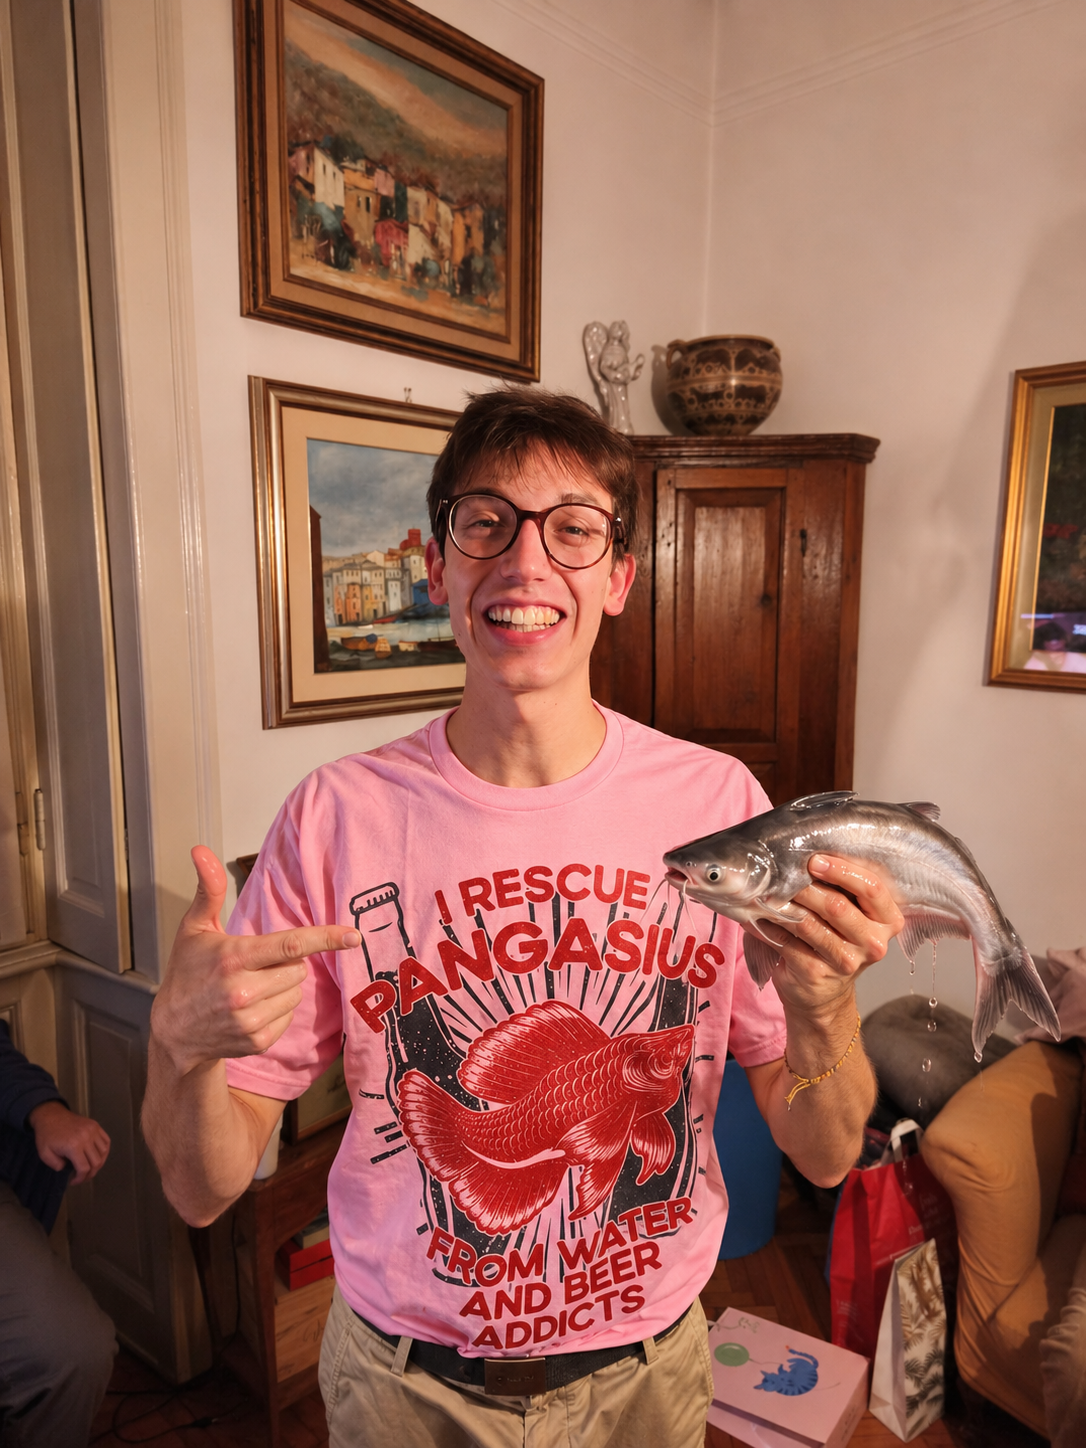
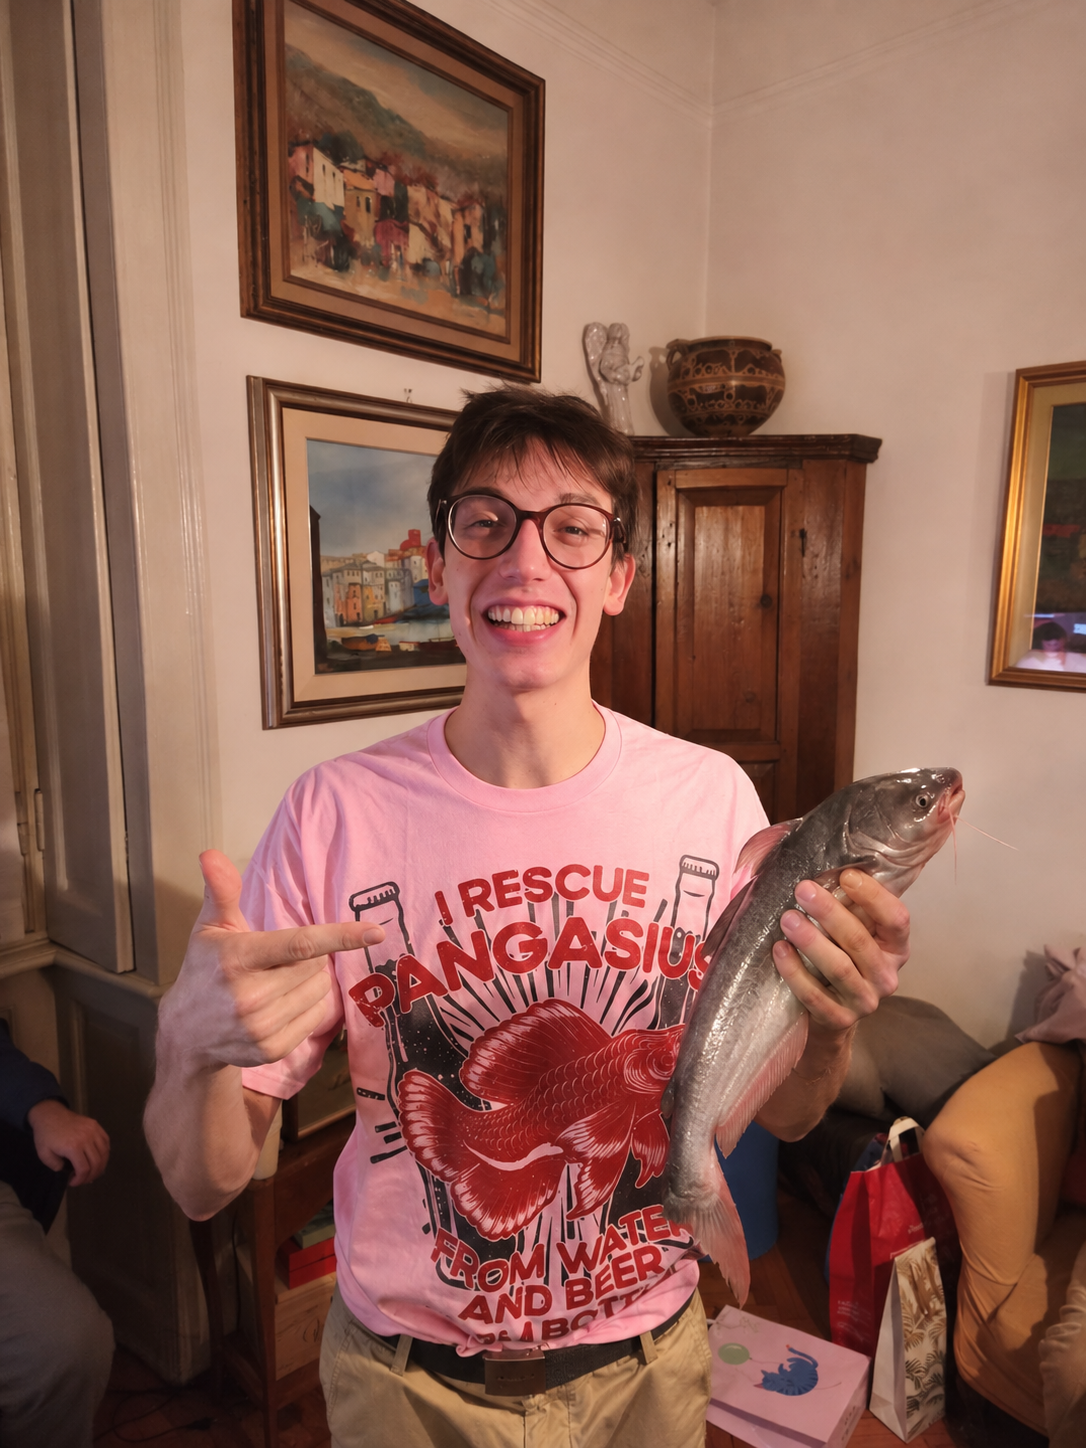
Add files via upload

diff --git a/index.html b/index.html
@@ -24,9 +24,17 @@
 <div class="ticker" aria-label="Il motto del movimento"><span>PIÙ PANGASIO</span><i>✳</i><span>MENO FRETTA</span><i>✳</i><span>RISPETTA I SUOI TEMPI</span><i>✳</i><span>L’UNICO PESCE ETICO</span></div>
 <section id="filosofia" class="philosophy wrap section">
   <div><p class="eyebrow">01 — LA NOSTRA FILOSOFIA</p><h2>La natura fa il suo corso.<br><em>Noi apparecchiamo.</em></h2></div>
-  <div class="theory"><p class="lead">Il segreto è tutto nell’attesa.</p><p>Nel modello Mekong del MPI, il pangasio viene pescato esattamente quando è appena morto di vecchiaia. Una coincidenza perfetta tra il ciclo della vita e l’ora di pranzo.</p><p>È allora che la produzione di proteine si modifica e si attivano gli enzimi che epurano le tossine accumulate negli anni. Il nome tecnico è <strong>epurazione</strong>. Il risultato, secondo la dottrina del movimento: un pangasio pienamente vegano.</p></div>
+  <div class="theory"><p class="lead">Il segreto è tutto nell’attesa.</p><p>Nel modello Mekong del MPI, il pangasio viene pescato esattamente quando è appena morto di vecchiaia. Una coincidenza perfetta tra il ciclo della vita e l’ora di pranzo.</p><p>Per il MPI, nella logica della sua parodia, il pangasio è vegano proprio perché viene pescato quando è già morto: non si interrompe la sua vita e quindi, secondo il movimento, non c’è sfruttamento animale di alcun tipo. È la nostra definizione immaginaria di etica a pinne spiegate.</p><p>È allora che la produzione di proteine si modifica e si attivano gli enzimi che epurano le tossine accumulate negli anni. Il nome tecnico è <strong>epurazione</strong>. Il risultato, secondo la dottrina del movimento: un pangasio pienamente vegano.</p></div>
 </section>
 <section class="process wrap" aria-label="Le tre fasi secondo la dottrina immaginaria MPI"><div><span>01 / IL TEMPO</span><h3>Una lunga vita.</h3><p>Il pangasio si prende tutto il tempo che gli serve. Il movimento approva.</p></div><div><span>02 / L’EPURAZIONE</span><h3>La grande svolta.</h3><p>Le tossine escono di scena. Entra la nostra creatività pseudoscientifica.</p></div><div><span>03 / LA TAVOLA</span><h3>Una nuova cultura.</h3><p>Dal fiume al ricettario. Con una considerevole deviazione logica.</p></div></section>
+<section class="fish-gallery wrap section" aria-labelledby="fish-title">
+<p class="eyebrow">RITRATTI CONTROCORRENTE</p><h2 id="fish-title">Tutte le sfumature<br><em>del pangasio.</em></h2>
+<div class="fish-grid">
+<figure><img src="assets/pangasio-albino.jpg" alt="Pangasio albino che nuota nell’acquario di Southend-on-Sea" width="4530" height="2548" loading="lazy"><figcaption>01 / Un altro volto del pangasio.</figcaption></figure>
+<figure><img src="assets/pangasio-acquario.jpg" alt="Un pangasio albino visto da vicino in acquario" width="3382" height="1902" loading="lazy"><figcaption>02 / Prospettive a pinne spiegate.</figcaption></figure>
+</div>
+<p class="photo-credit">Foto: Emőke Dénes / Wikimedia Commons, <a href="https://creativecommons.org/licenses/by-sa/4.0/">CC BY-SA 4.0</a>. <a href="https://commons.wikimedia.org/wiki/File:Hal_-_Pangasianodon_hypophthalmus_-_2.jpg">Foto 1</a> · <a href="https://commons.wikimedia.org/wiki/File:Hal_-_Pangasianodon_hypophthalmus_-_3.jpg">Foto 2</a>. Ritaglio di impaginazione.</p>
+</section>
 <section id="manifesto" class="manifesto section"><div class="wrap"><div class="section-head"><div><p class="eyebrow">02 — IL MANIFESTO</p><h2>Tre punti fermi.<br><em>In acque mosse.</em></h2></div><p>Non seguiamo la corrente.<br>La condiamo con il prezzemolo.</p></div>
 <article class="pledge"><span class="number">01</span><h3>Un pangasio<br>in ogni cucina.</h3><p>Diffondere il pangasio nella cucina e nella cultura italiana. Per un’alternativa sostenibile e <strong>VEGANA</strong>, secondo l’irremovibile e immaginaria definizione del MPI.</p><span class="arrow" aria-hidden="true">↗</span></article>
 <article class="pledge"><span class="number">02</span><h3>La questione<br>thailandese.</h3><p>Nell’universo satirico del MPI, in Thailandia il pangasio viene pescato ancora vivo: un affronto al nostro protocollo dell’attesa. Da qui la richiesta volutamente assurda del movimento: riconoscere la Thailandia come «stato terroristico».</p><span class="arrow" aria-hidden="true">↗</span></article>

diff --git a/style.css b/style.css
@@ -10,3 +10,14 @@
 .founder-grid img{display:block;width:100%;height:auto;aspect-ratio:3/4;object-fit:cover}
 .founder-grid figcaption{font-size:11px;padding:15px 0;border-bottom:1px solid #bdc4b2;letter-spacing:.3px}
 @media(max-width:680px){.founder-grid{grid-template-columns:1fr;gap:28px}.disclaimer,.recipe-note{padding:18px}}
+
+/* Note integrate nel testo, senza riquadri o cornici. */
+.notice{background:transparent;color:#64705f}
+.disclaimer,.recipe-note{background:transparent;color:#74796e;padding:0;border:0;font-size:12px;line-height:1.7}
+.manifesto-note{border:0;color:#ced6c6;padding-top:18px}
+.fish-gallery{padding-top:0;padding-bottom:70px}
+.fish-grid{display:grid;grid-template-columns:1fr 1fr;gap:28px}
+.fish-grid figure{margin:0}
+.fish-grid img{display:block;width:100%;height:auto;aspect-ratio:16/9;object-fit:cover}
+.fish-grid figcaption,.photo-credit{font-size:11px;color:var(--muted);margin-top:12px}
+@media(max-width:680px){.fish-grid{grid-template-columns:1fr}.disclaimer,.recipe-note{padding:0}}
